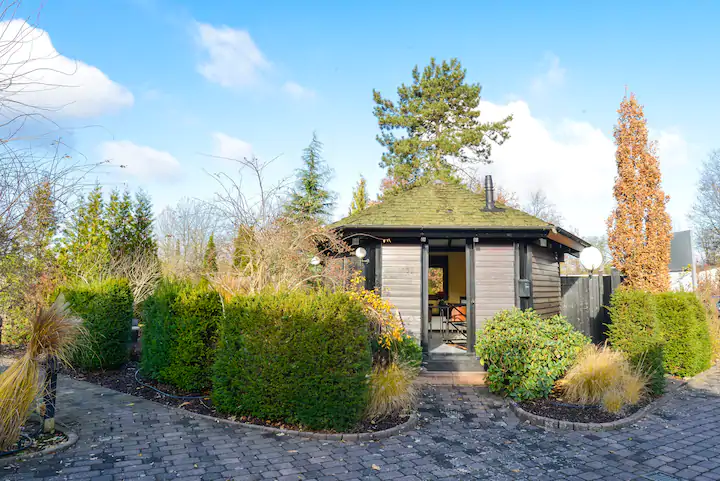
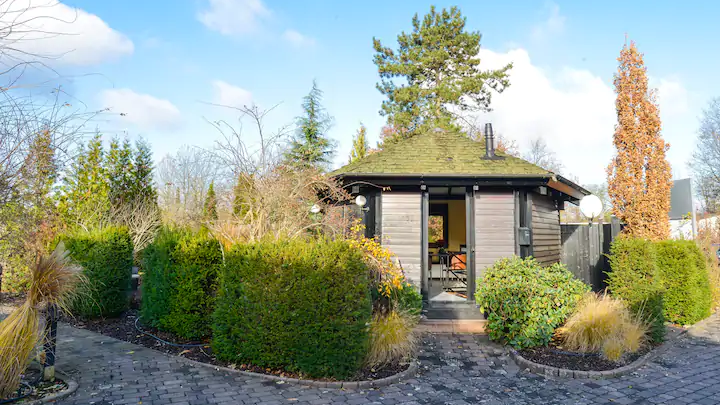
header image mobile optimized

diff --git a/src/App.vue b/src/App.vue
@@ -1,9 +1,12 @@
 <template>
   <div class="w-full h-full md:container md:mx-auto">
-    <div id="mobile-header" class="bg-gradient-to-t from-white md:hidden">
+    <div id="mobile-header" class="md:hidden">
       <img
-        src="/src/assets/img/haus.png"
-        class="md:hidden"
+        id="mobile-header_image"
+        :src="imgUrl"
+        class="object-cover h-auto max-w-full md:hidden"
+        :width="computedWidth"
+        :height="computedHeight"
       />
     </div>
     <hero />
@@ -41,7 +44,7 @@
 
       <content-section title="Ausstattung">
         <template #content>
-          <info-list :items="Features" />
+          <info-list :items="features" />
           <br />
           🏗 Infos erweitern
         </template>
@@ -65,11 +68,37 @@
   </div>
 </template>
 
-<script setup>
+<script>
 import Hero from './components/Hero.vue'
 import InfoCard from './components/InfoList/InfoCard.vue'
 import ContentSection from './components/ContentSection.vue'
 import InfoList from './components/InfoList/InfoList.vue'
 import Features from './assets/features.json'
 import ImageGrid from './components/ImageGrid.vue'
+
+export default {
+  components: {
+    Hero,
+    InfoCard,
+    ContentSection,
+    InfoList,
+    Features,
+    ImageGrid,
+  },
+  data() {
+    return {
+      features: Features,
+      imgUrl: '/src/assets/img/haus.png',
+    }
+  },
+  computed: {
+    computedWidth() {
+      return `${window.innerWidth}`
+    },
+    computedHeight() {
+      const width = window.innerWidth
+      return (width / 16) * 9
+    },
+  },
+}
 </script>

diff --git a/src/components/Hero.vue b/src/components/Hero.vue
@@ -1,6 +1,9 @@
 <template>
   <div class="m-10">
-    <h1 class="text-3xl font-bold mb-4">Ferienwohnung</h1>
-    <div class="text-gray-700">📍 Entenhausen, Welt · ☎ 0231 / 413 413</div>
+    <h1 class="mb-4 text-3xl font-bold">Erholung im Grünen</h1>
+    <div class="flex font-thin text-gray-600">
+      📍 Entenhausen, Welt · ☎ 0231 / 413 413
+    </div>
+    <hr class="mt-6 md:mt-8"/>
   </div>
 </template>

diff --git a/src/components/ContentSection.vue b/src/components/ContentSection.vue
@@ -2,7 +2,7 @@
   <div class="m-10">
     <headline-2 :text="title" />
     <slot name="content"></slot>
-    <hr class="mt-14" />
+    <hr class="mt-8 md:mt-14" />
   </div>
 </template>
 
